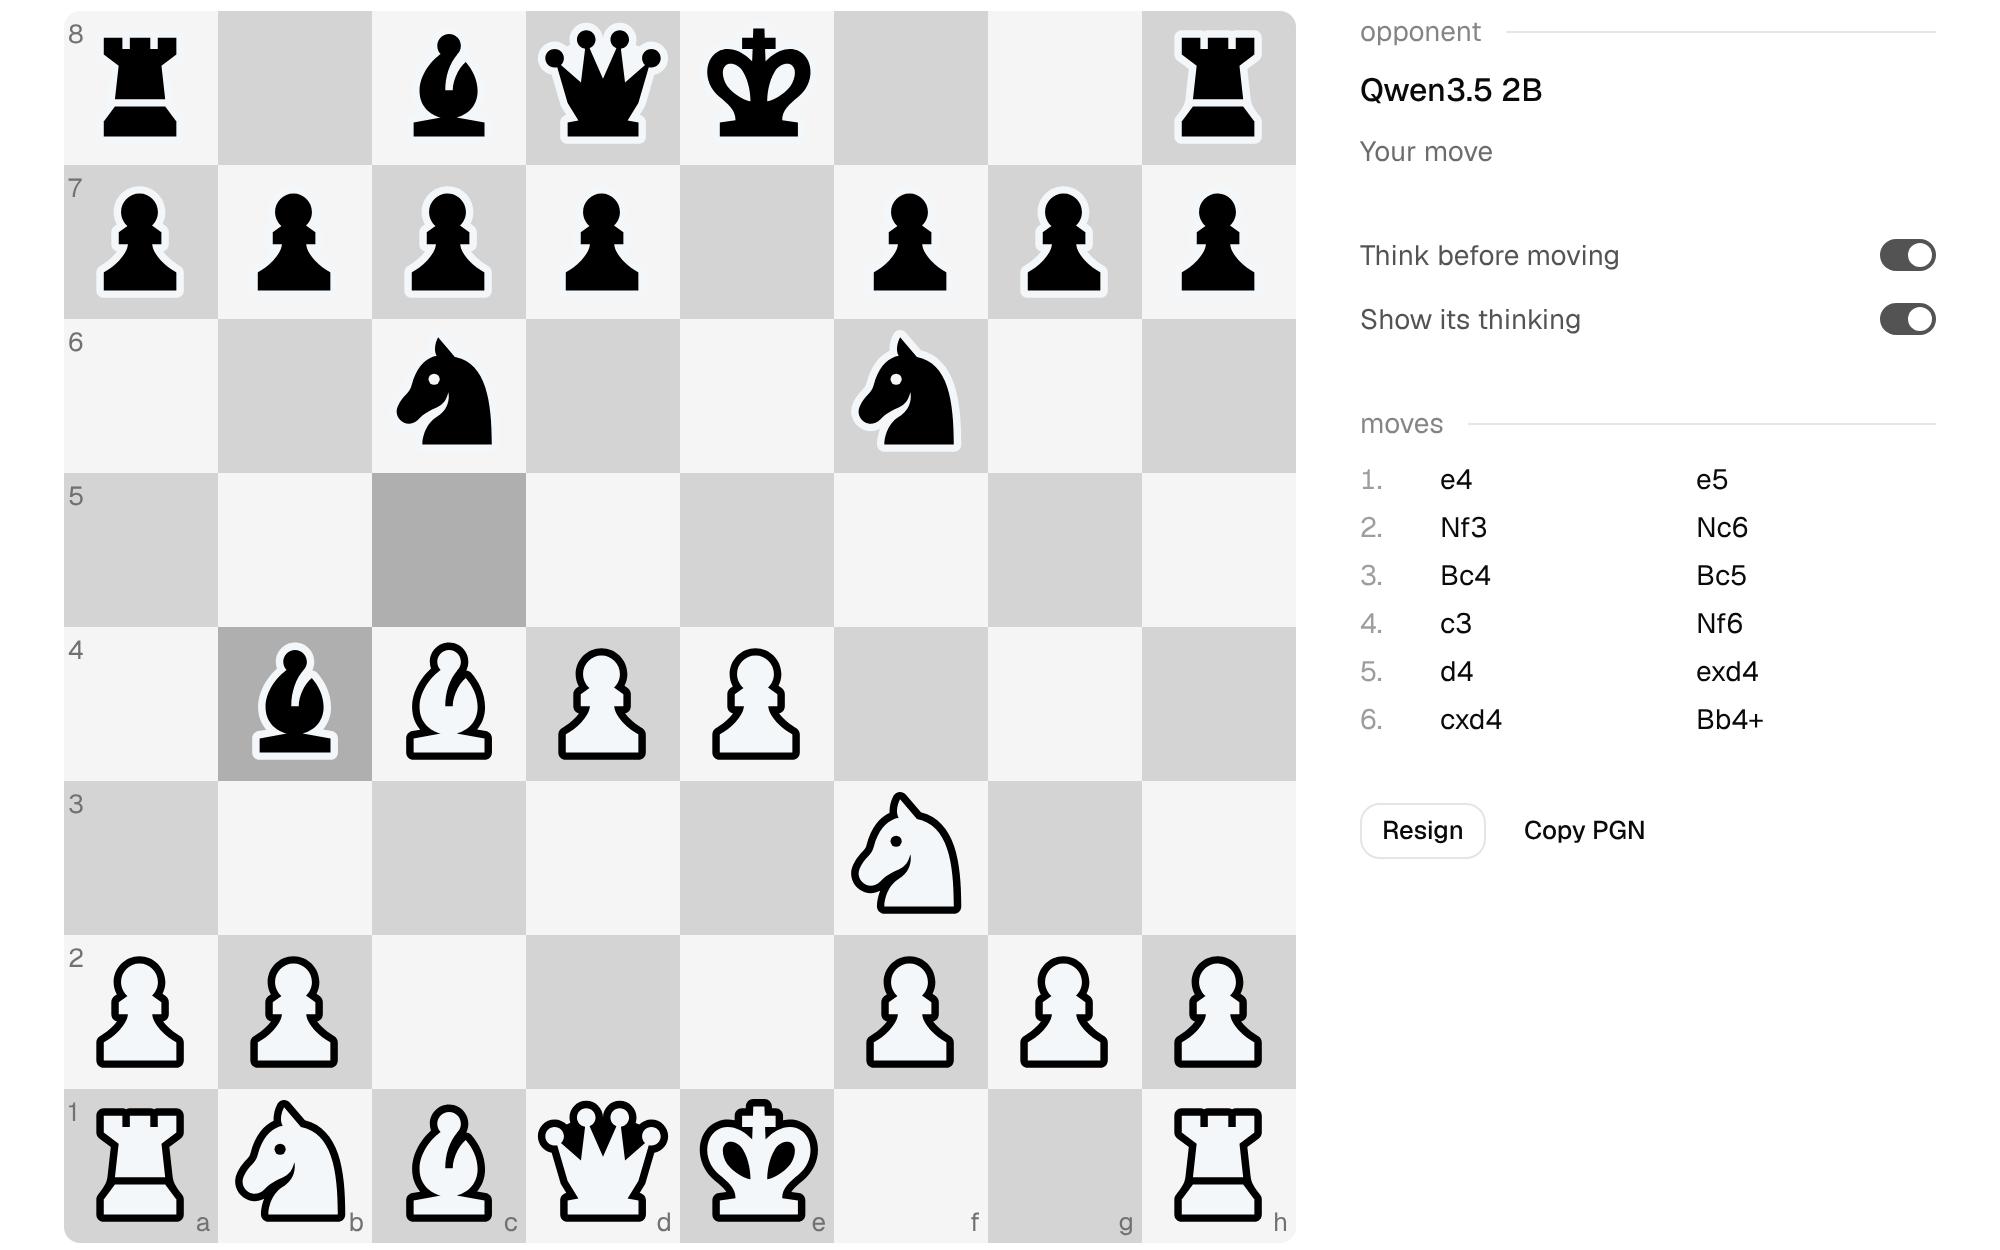
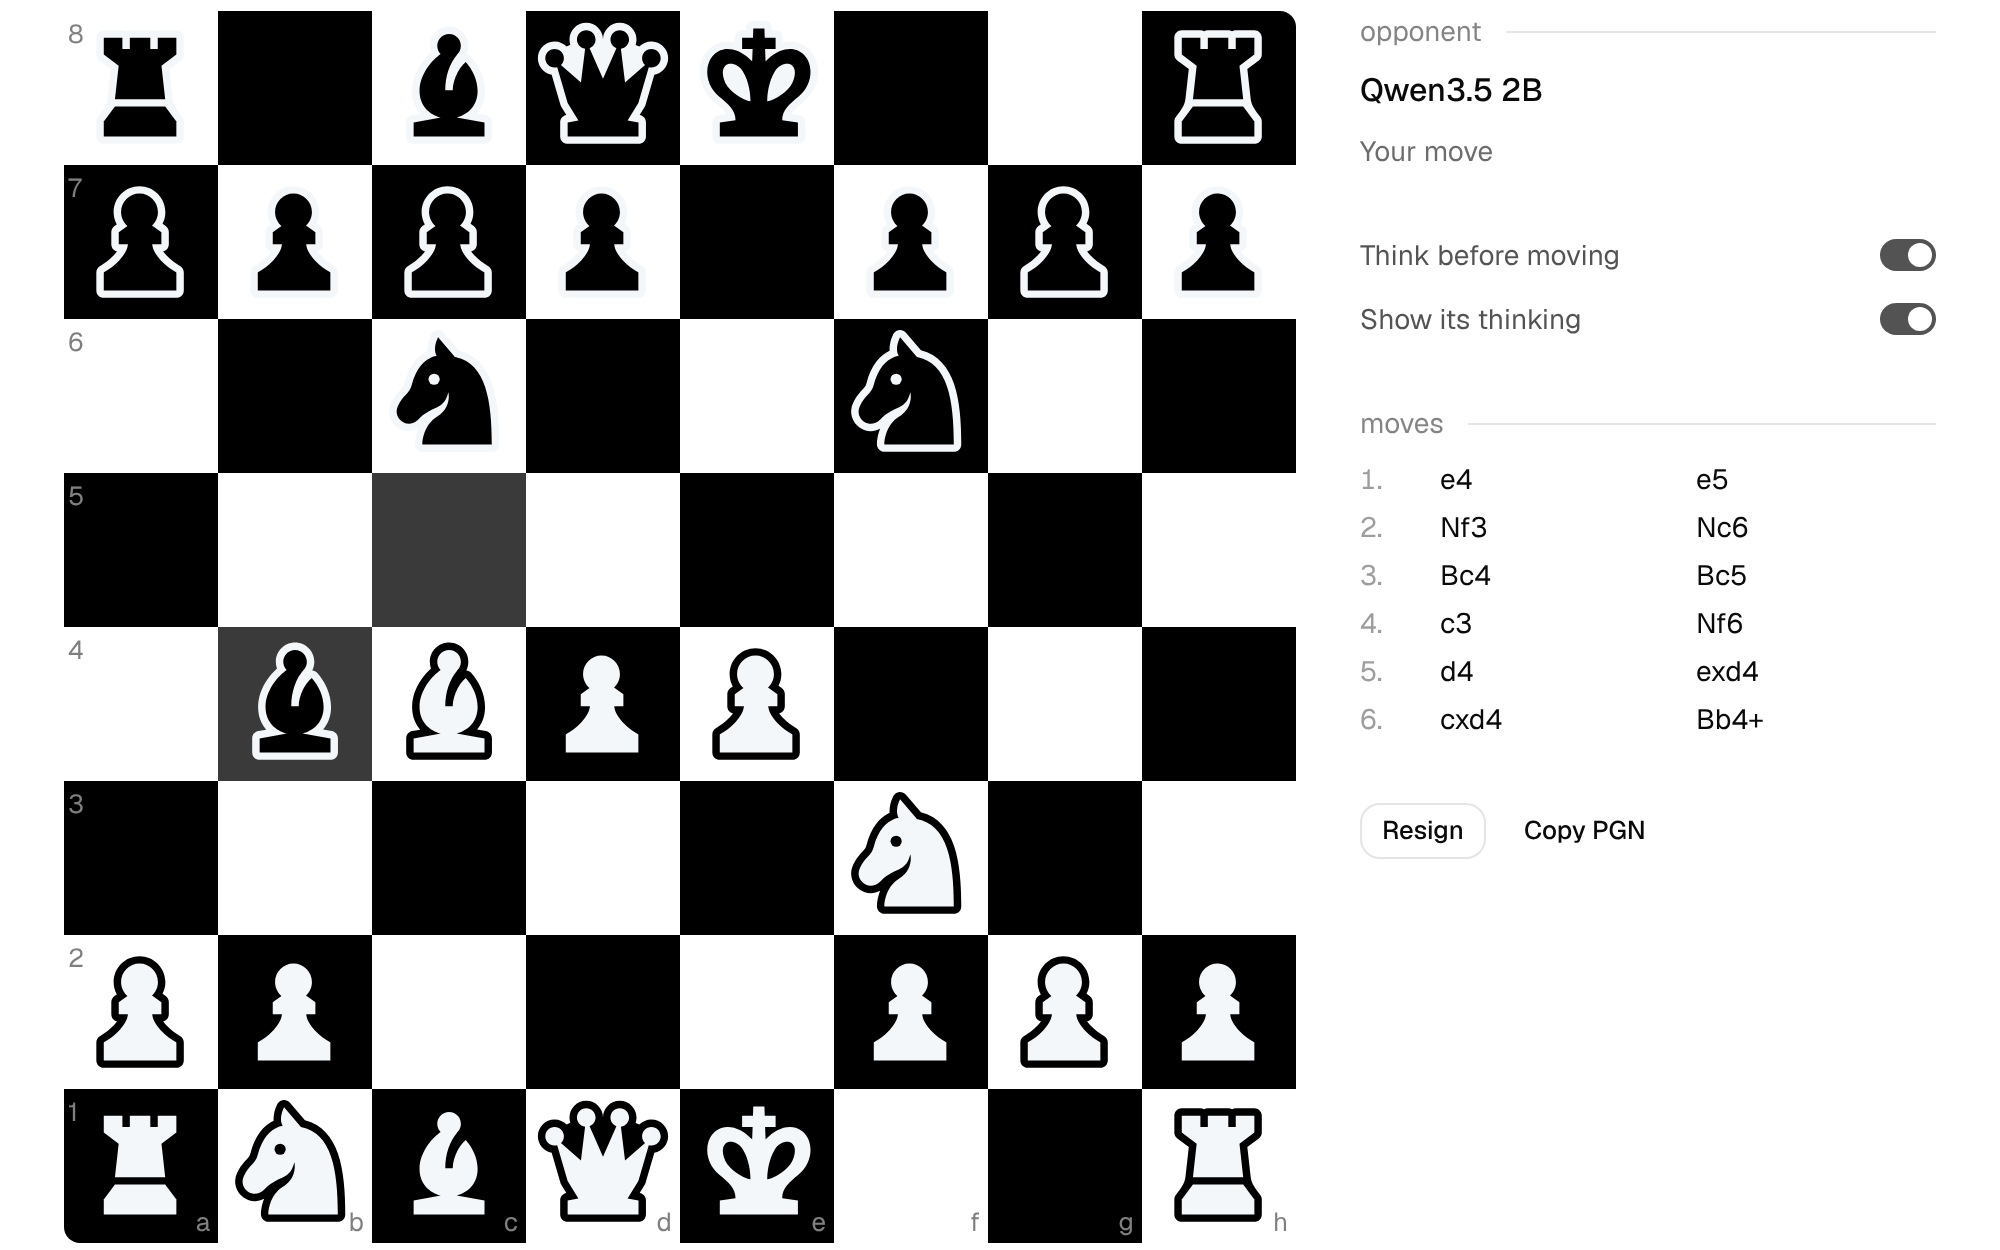
Make the chess board black and white
The squares are now pure white and black in both themes, with a mid gray
for the last move and the model's highlights so they read on either square,
and coordinates in the opposite color of their square.

Claude-Session: https://claude.ai/code/session_01HGKG6U7k8wdaAMMQaDu5Q7

Changed region(s): [[0.031, 0.0, 0.651, 0.9984]]

diff --git a/workspaces/web/app/components/chess/Board.tsx b/workspaces/web/app/components/chess/Board.tsx
@@ -5,14 +5,15 @@ import type { Mention } from '~/lib/chess/mentions';
 import { PIECES } from './pieces';
 
 // The board, drawn by react-chessboard from chess.js's position. Its colors
-// come from --chess-* in styles/app.css, which follow the light and dark
-// themes, and its pieces from ./pieces. Moves are made by dragging or by clicking a piece and then a square.
+// come from --chess-* in styles/app.css, black and white in both themes, and
+// its pieces from ./pieces. Moves are made by dragging or by clicking a piece
+// and then a square.
 
 // SVG arrows can't read CSS variables, so this one gray has to read on both
-// the light and dark boards.
+// the black and white squares.
 const ARROW = 'rgb(128 128 128 / 0.75)';
 
-const squareTint = 'color-mix(in oklab, var(--chess-mark) 22%, transparent)';
+const squareTint = 'color-mix(in oklab, var(--chess-mark) 45%, transparent)';
 const targetDot = `radial-gradient(circle, ${squareTint} 22%, transparent 24%)`;
 
 export function Board({
@@ -86,8 +87,8 @@ export function Board({
 		boardStyle: { borderRadius: '0.5rem', overflow: 'hidden' },
 		lightSquareStyle: { backgroundColor: 'var(--chess-light)' },
 		darkSquareStyle: { backgroundColor: 'var(--chess-dark)' },
-		lightSquareNotationStyle: { color: 'var(--chess-ink)' },
-		darkSquareNotationStyle: { color: 'var(--chess-ink)' },
+		lightSquareNotationStyle: { color: 'var(--chess-dark)', opacity: 0.5 },
+		darkSquareNotationStyle: { color: 'var(--chess-light)', opacity: 0.5 },
 		dropSquareStyle: { boxShadow: 'inset 0 0 0 3px var(--chess-mark)' },
 		animationDurationInMs: 200,
 		canDragPiece: ({ piece }) => canMove && piece.pieceType[0] === chess.turn(),

diff --git a/workspaces/web/app/styles/app.css b/workspaces/web/app/styles/app.css
@@ -337,18 +337,11 @@
 	}
 }
 
-/* The /chess board (components/chess/Board.tsx): two quiet grays, the coordinates' ink, and one mark
-   for what the model is thinking about, all following the theme. */
+/* The /chess board (components/chess/Board.tsx): white and black squares in
+   both themes, and one mid gray mark for the last move and for what the model
+   is thinking about, which reads on either square. */
 .chess-board {
-	--chess-light: oklch(0.97 0 0);
-	--chess-dark: oklch(0.87 0 0);
-	--chess-ink: oklch(0.55 0 0);
-	--chess-mark: oklch(0.3 0 0);
-
-	.dark & {
-		--chess-light: oklch(0.62 0 0);
-		--chess-dark: oklch(0.5 0 0);
-		--chess-ink: oklch(0.85 0 0);
-		--chess-mark: oklch(0.97 0 0);
-	}
+	--chess-light: #fff;
+	--chess-dark: #000;
+	--chess-mark: oklch(0.6 0 0);
 }
